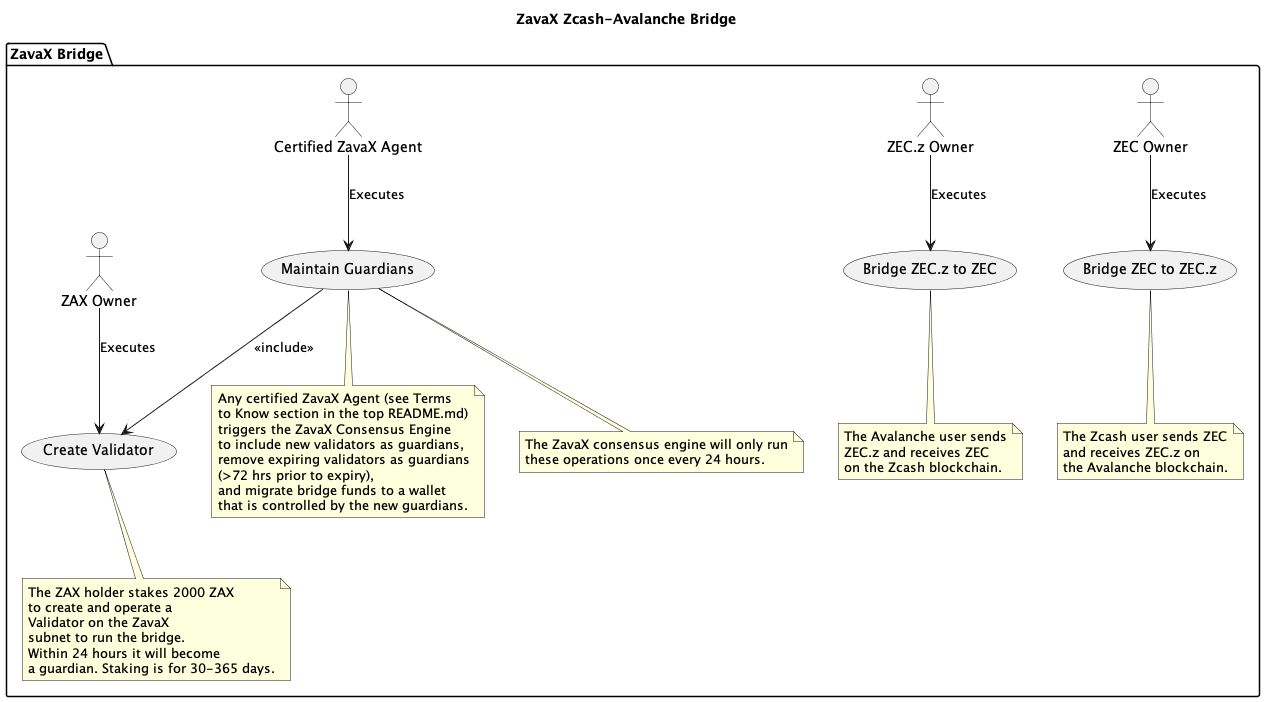
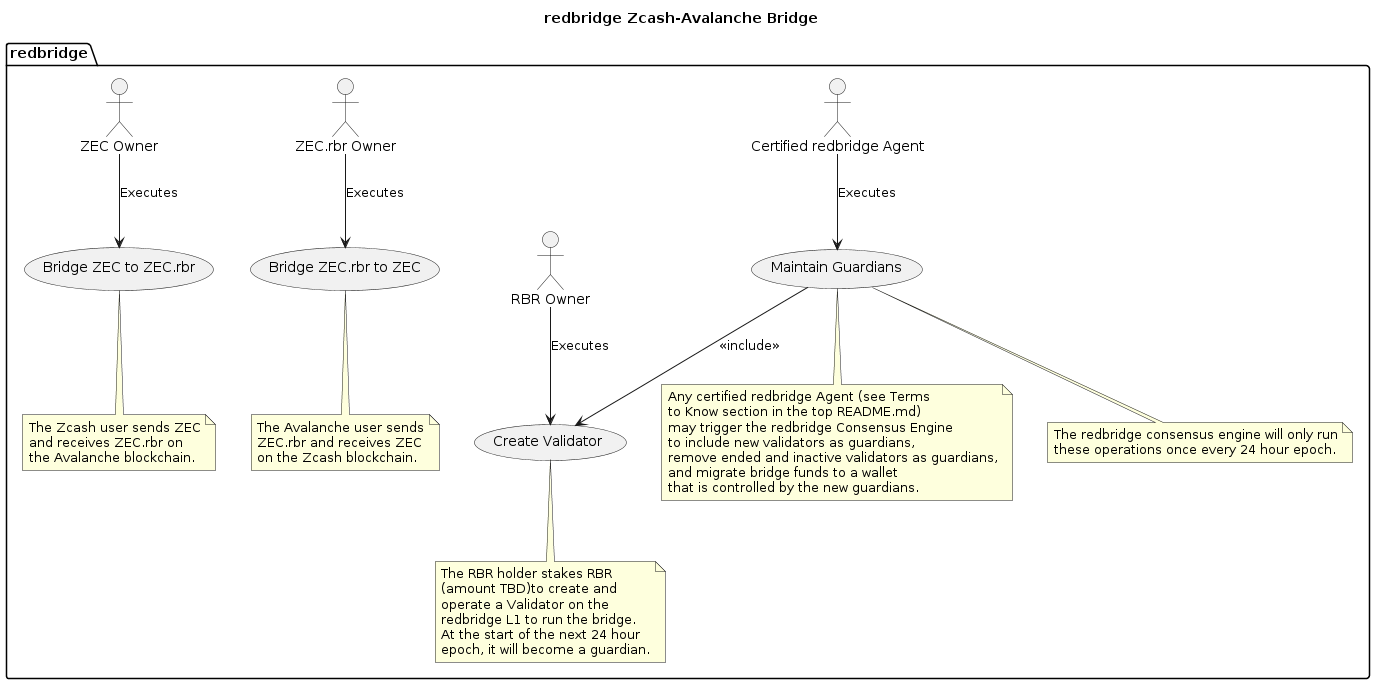
Update: Escrow logic and move ZA to RA

diff --git a/Architecture/UML/README.md b/Architecture/UML/README.md
@@ -1,0 +1,7 @@
+## UML Diagrams
+Study these these UML diagrams to learn how redbridge works.
+- [The Use Case Diagram](./Usecase/README.md) shows what users can do with redbridge.
+- [Deployment Diagrams](./Deployment/README.md) show how redbridge is deployed, both on one node and as a blockchain network.
+- [The Component Diagram](./Component/README.md) gives an overview of how the components of redbridge interact with each other and with the Zcash and Avalanche platforms.
+- [The Class Diagram](./Class/README.md) shows the data structures that redbridge uses.
+- [Sequence Diagrams](./Sequence/README.md) show in detail how each use case is brought to life.

diff --git a/README.md b/README.md
@@ -1,0 +1,6 @@
+# red·bridge Zcash-Avalanche Bridge Utilizing an Avalanche L1
+
+
+This repo os for **red·bridge**, a Zcash-Avalanche bridge. 
+
+The bridge is being built now. The [architectural design documents](./Architecture/README.md) are a step along the way of bringing it to life and a good place for you to start as you familiarize yourself with the project.

diff --git a/Architecture/README.md b/Architecture/README.md
@@ -1,5 +1,5 @@
-## red·bridge Zcash-Avalanche Bridge Utilizing an Avalanche L1 (v1.1.0)
-## Architecture
+# red·bridge Zcash-Avalanche Bridge Utilizing an Avalanche L1 
+## Architecture (architecture v1.1.0)
 
 Here you will find architecture-related documents for the **red·bridge** Zcash-Avalanche bridge (hereafter referred to as "redbridge" in these documents). This bridge uses the technique known as *wrapping* to transport value between the Zcash and Avalanche platforms, wrapping Zcash's native token ZEC into ZEC.rbr which can be used on the Avalanche C-chain and beyond. Likewise, ZEC.rbr owners can bridge their ZEC.rbr to ZEC on the Zcash blockchain.
 

diff --git a/Architecture/UML/Sequence/Bridge ZEC Sequence Notes.md b/Architecture/UML/Sequence/Bridge ZEC Sequence Notes.md
@@ -121,9 +121,9 @@ The ZEC Owner only needs to own ZEC, not AVAX, to bridge. The redbridge Agent is
 
 The redbridge Agent is paid a fee for acting as the Agent for the bridging transaction. This fee is determined by the redbridge Agent itself, so different agents may charge different bridging fees. The fee charged can be a percentage of the transaction and/or a flat fee, and it is paid in ZEC.rbr. 
 
-In connections *29* and *30* the ZA's bridging fees are subtracted from the bridge transaction, and the warp message contains instructions to mint the bridging fee for the ZA guardian and the remaining amount for the ZEC Owner.
+In connections *29* and *30* the RA's bridging fees are subtracted from the bridge transaction, and the warp message contains instructions to mint the bridging fee for the RA guardian and the remaining amount for the ZEC Owner.
 
-redbridge Agent will also deposit *seed* AVAX in ZEC Owner's ZEC.rbr wallet. This amount is chosen by the ZA, but we suggest that it should be enough to cover gas for one or two trades on an Avalanche DEX.
+redbridge Agent will also deposit *seed* AVAX in ZEC Owner's ZEC.rbr wallet. This amount is chosen by the RA, but we suggest that it should be enough to cover gas for one or two trades on an Avalanche DEX.
 
 
 

diff --git a/Architecture/UML/Sequence/README.md b/Architecture/UML/Sequence/README.md
@@ -2,6 +2,6 @@
 ### Overview
 Use these sequence diagrams to see how redbridge use cases are executed "under the hood." Components are listed across the top and bottom, and application flow is from top to bottom. For a zoomed-in view, see the corresponding [communication](../Communication/) diagrams.
 
-For clarity, these sequence diagrams are optimistic and assume the briding process goes smoothly. However, dealing with component failures is crucial for the bridge to function resiliantly. Each sequence diagram has a corresponding *notes* document that includes a table describing how component and communication failures are dealt with for each step of the sequences. We opted to put these in table form rather than use activity diagrams (as we had originally proposed) because we believe it's clearer to show them all together in table form rather than creating many activity diagrams that you would have to flip between.
+For clarity, these sequence diagrams are optimistic and assume the bridging process goes smoothly. However, dealing with component failures is crucial for the bridge to function resiliently. Each sequence diagram has a corresponding *notes* document that includes a table describing how component and communication failures are dealt with for each step of the sequences. We opted to put these in table form rather than use activity diagrams (as we had originally proposed) because we believe it's clearer to show them all together in table form rather than creating many activity diagrams that you would have to flip between.
 
 Each large step of each sequence are shown as grouping boxes around smaller steps, so for a quick overview, you can read the titles of the boxes from top to bottom. Then you can go back and dive into the details.

diff --git a/Architecture/UML/Usecase/README.md b/Architecture/UML/Usecase/README.md
@@ -1,2 +1,2 @@
 ## Use Case Diagram
-This use case UML diagram shows the four use cases for the redbridge. 
+This use case UML diagram shows the four use cases for redbridge. 